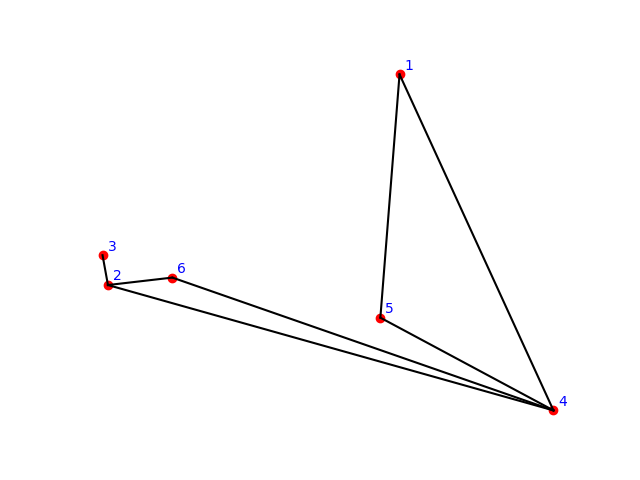
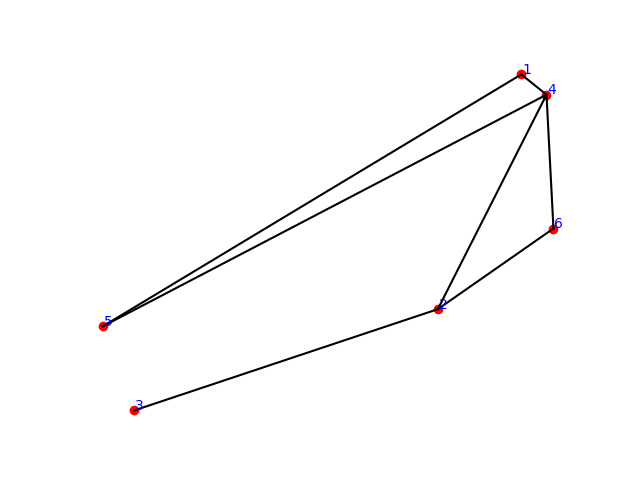
somehow changed 'create_embegging.cpp' still has flaws

diff --git a/create_embedding.cpp b/create_embedding.cpp
@@ -6,27 +6,20 @@ mt19937 rnd(chrono::high_resolution_clock::now().time_since_epoch().count());
 uniform_real_distribution<> dist(0, 1);
 using ll = int64_t;
 using ld = long double;
-constexpr ll MAXD = 993;
+constexpr ll MAXD = 1e4;
 constexpr int EPOCH = 10000, ITER = 10000;
-constexpr ld alpha = 0, PERFECT_LEN = 100;
-set<pair<ll, ll>> all_points;
-inline ll rand_coord() {
-    return (ll) (rnd() % MAXD);
-}
+constexpr ld ALPHA = 1e-3, BETA = 1e-2, GAMMA = 1e3;
+constexpr ld PERFECT_LEN = 1000, PERFECT_EDGE_TO_NODE_DISTANCE = 100;
 struct vec {
+    static ll rand_coord() {
+        return (ll) (rnd() % MAXD);
+    }
     ll x, y;
     vec(ll x, ll y) : x(x), y(y) {}
     vec() : x(rand_coord()), y(rand_coord()) {}
-    void __rand() {
+    void rand() {
         x = rand_coord();
         y = rand_coord();
-    }
-    void rand() {
-        all_points.erase({x, y});
-        do {
-            __rand();
-        } while (all_points.contains({x, y}));
-        all_points.emplace(x, y);
     }
     vec operator - (const vec & a) const {
         return vec(x - a.x, y - a.y);
@@ -47,19 +40,27 @@ struct vec {
 inline ll sign(ll x) {
     return (x > 0) - (x < 0);
 }
-inline bool on_segment(vec & a, vec & b, vec & x) {
+inline bool on_segment(const vec & a, const vec & b, const vec & x) {
     return ((b - a) ^ (x - a)) == 0 && (a - x) * (b - x) <= 0;
 }
 //check if segments AB and CD have common point and return penalty
-inline int penalty(vec & a, vec & b, vec & c, vec & d) {
-    if (on_segment(a, b, c) || on_segment(a, b, d) || on_segment(c, d, a) || on_segment(c, d, b)) return 100;
+inline ld intersection_penalty(const vec & a, const vec & b, const vec & c, const vec & d) {
+    if (on_segment(a, b, c) || on_segment(a, b, d) || on_segment(c, d, a) || on_segment(c, d, b)) return GAMMA * 1e2;
     ll r1 = (c - a) ^ (b - a), r2 = (d - a) ^ (b - a);
     ll r3 = (b - c) ^ (d - c), r4 = (a - c) ^ (d - c);
     if (r1 == 0 && r2 == 0) return 0;
-    return sign(r1) * sign(r2) <= 0 && sign(r3) * sign(r4) <= 0;
+    return int(sign(r1) * sign(r2) <= 0 && sign(r3) * sign(r4) <= 0) * GAMMA;
 }
-constexpr inline ld len_penalty(const vec & a) {
-    return alpha * abs(a.len() - PERFECT_LEN);
+inline ld distance_penalty(const vec & x, const vec & a, const vec & b) {
+    vec v = b - a, rv = a - b, s = x - a, t = x - b;
+    ld dst = min(s.len(), t.len());
+    if (v * s >= 0 && rv * t >= 0) dst = abs(s ^ t) / v.len();
+    if (dst < 1) return BETA / dst;
+    if (dst < PERFECT_EDGE_TO_NODE_DISTANCE) return BETA * (PERFECT_EDGE_TO_NODE_DISTANCE - dst);
+    return 0;
+}
+inline ld len_penalty(const vec & a) {
+    return ALPHA * abs(a.len() - PERFECT_LEN);
 }
 void solve() {
     int n, m;
@@ -73,11 +74,27 @@ void solve() {
         g[b].emplace_back(a);
     }
     vec points[n];
-    auto get_penalty = [&](int a, int b) {
+    auto get_intersection_penalty = [&](int a, int b) {
         ld pen = 0;
         for (auto [c, d] : edges) {
             if (a == c || a == d || b == c || b == d) continue;
-            pen += penalty(points[a], points[b], points[c], points[d]);
+            pen += intersection_penalty(points[a], points[b], points[c], points[d]);
+        }
+        return pen;
+    };
+    auto get_node_distance_penalty = [&](int a) {
+        ld pen = 0;
+        for (auto [c, d] : edges) {
+            if (a == c || a == d) continue;
+            pen += distance_penalty(points[a], points[c], points[d]);
+        }
+        return pen;
+    };
+    auto get_edge_distance_penalty = [&](int a, int b) {
+        ld pen = 0;
+        for (int v = 0; v < n; ++v) {
+            if (a == v || b == v) continue;
+            pen += distance_penalty(points[v], points[a], points[b]);
         }
         return pen;
     };
@@ -87,7 +104,8 @@ void solve() {
         for (int i = 0; i < m; ++i) {
             auto [a, b] = edges[i];
             pen += len_penalty(points[b] - points[a]);
-            pen += get_penalty(a, b);
+            pen += get_intersection_penalty(a, b);
+            pen += get_edge_distance_penalty(a, b);
         }
         ld T = 1000;
         for (int iter = 0; iter < ITER; ++iter) {
@@ -96,25 +114,28 @@ void solve() {
             int v = rnd() % n;
             for (int to : g[v]) {
                 cur_pen -= 2 * len_penalty(points[to] - points[v]);
-                cur_pen -= 2 * get_penalty(v, to);
+                cur_pen -= 2 * get_intersection_penalty(v, to);
+                cur_pen -= get_edge_distance_penalty(v, to);
             }
+            cur_pen -= get_node_distance_penalty(v);
             vec old(points[v]);
             points[v].rand();
             for (int to : g[v]) {
                 cur_pen += 2 * len_penalty(points[to] - points[v]);
-                cur_pen += 2 * get_penalty(v, to);
+                cur_pen += 2 * get_intersection_penalty(v, to);
+                cur_pen -= get_edge_distance_penalty(v, to);
             }
+            cur_pen += get_node_distance_penalty(v);
             if (dist(rnd) < exp((pen - cur_pen) / T)) {
                 pen = cur_pen;
             } else {
                 points[v] = old;
             }
-            if (iter % 1000 == 0) cerr << pen << '\n';
-            if (pen < 1) {
-                cerr << "COOL!" << ' ' << pen << '\n';
-                for (int i = 0; i < n; ++i) cout << points[i].x << ' ' << points[i].y << '\n';
-                return;
-            }
+        }
+        if (pen < GAMMA) {
+            cerr << "COOL!" << ' ' << pen << '\n';
+            for (int i = 0; i < n; ++i) cout << points[i].x << ' ' << points[i].y << '\n';
+            return;
         }
     }
 }
